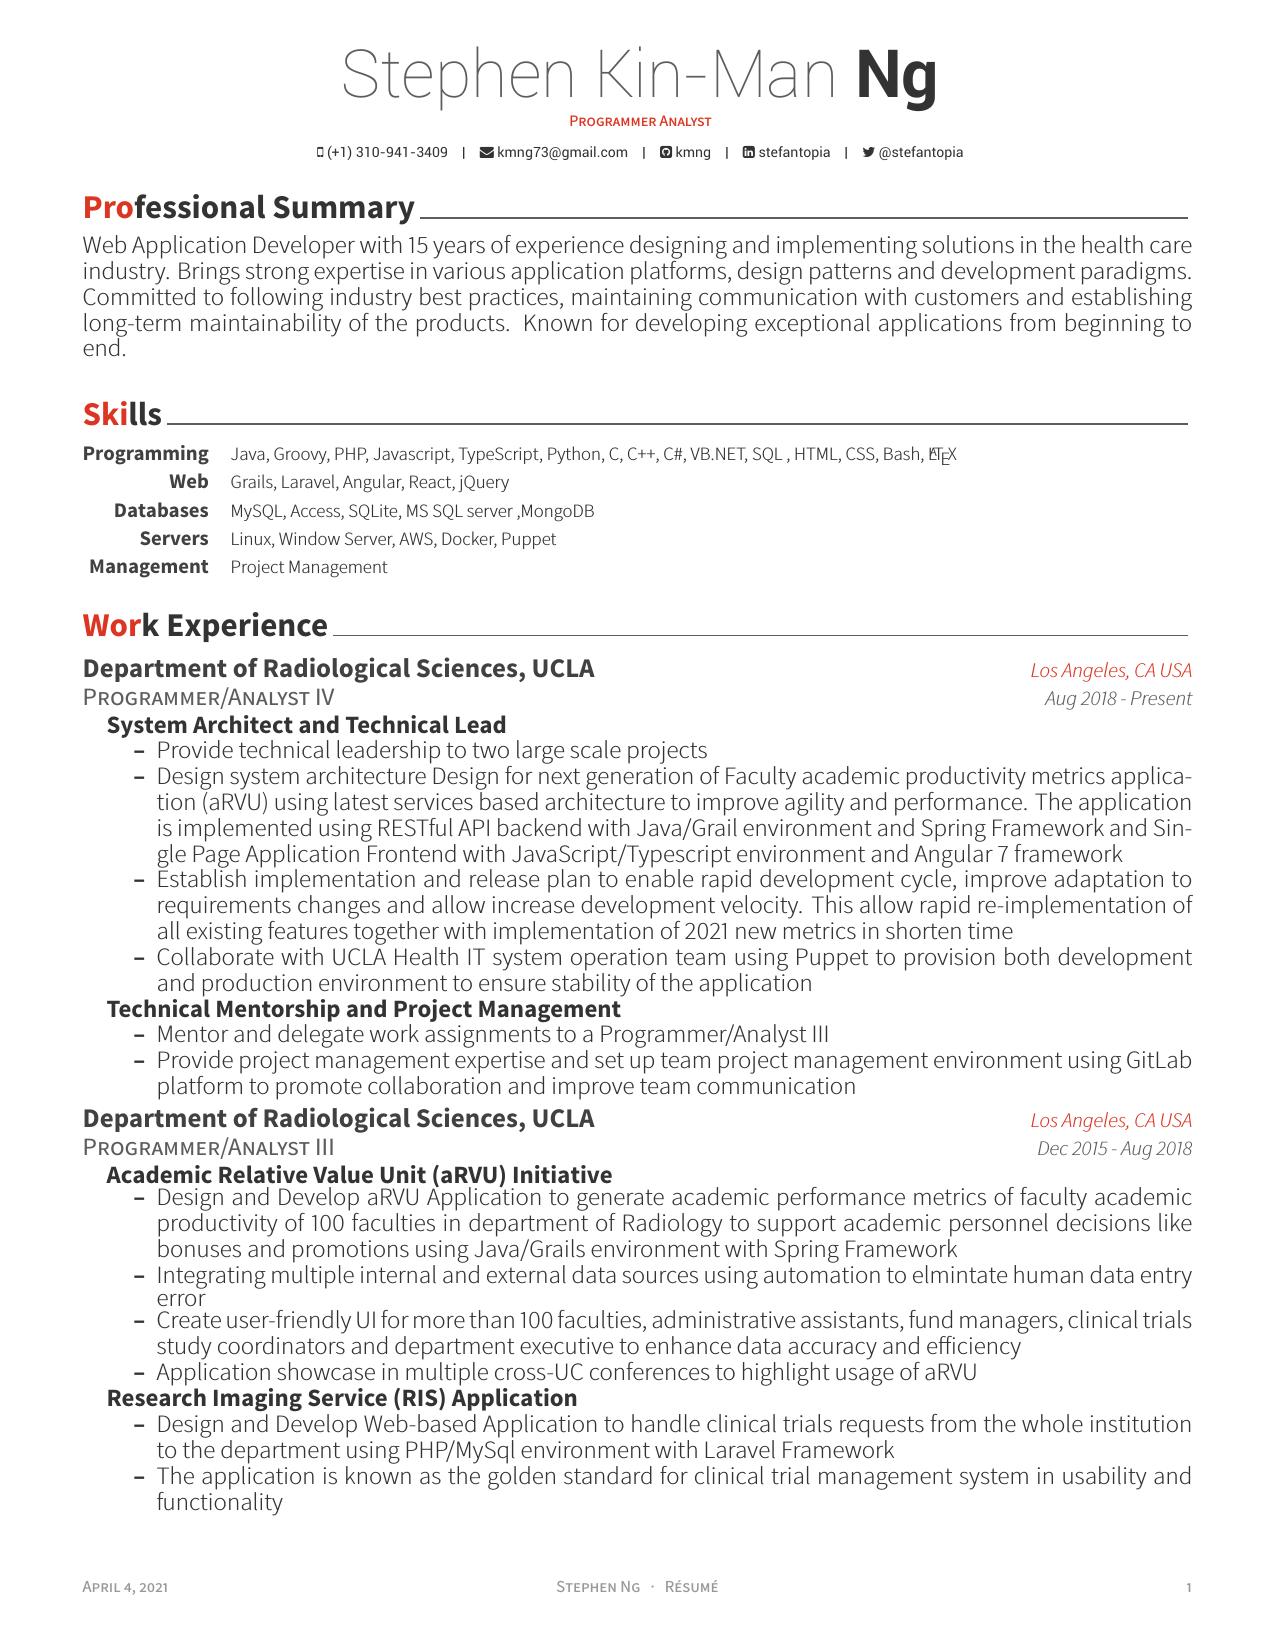
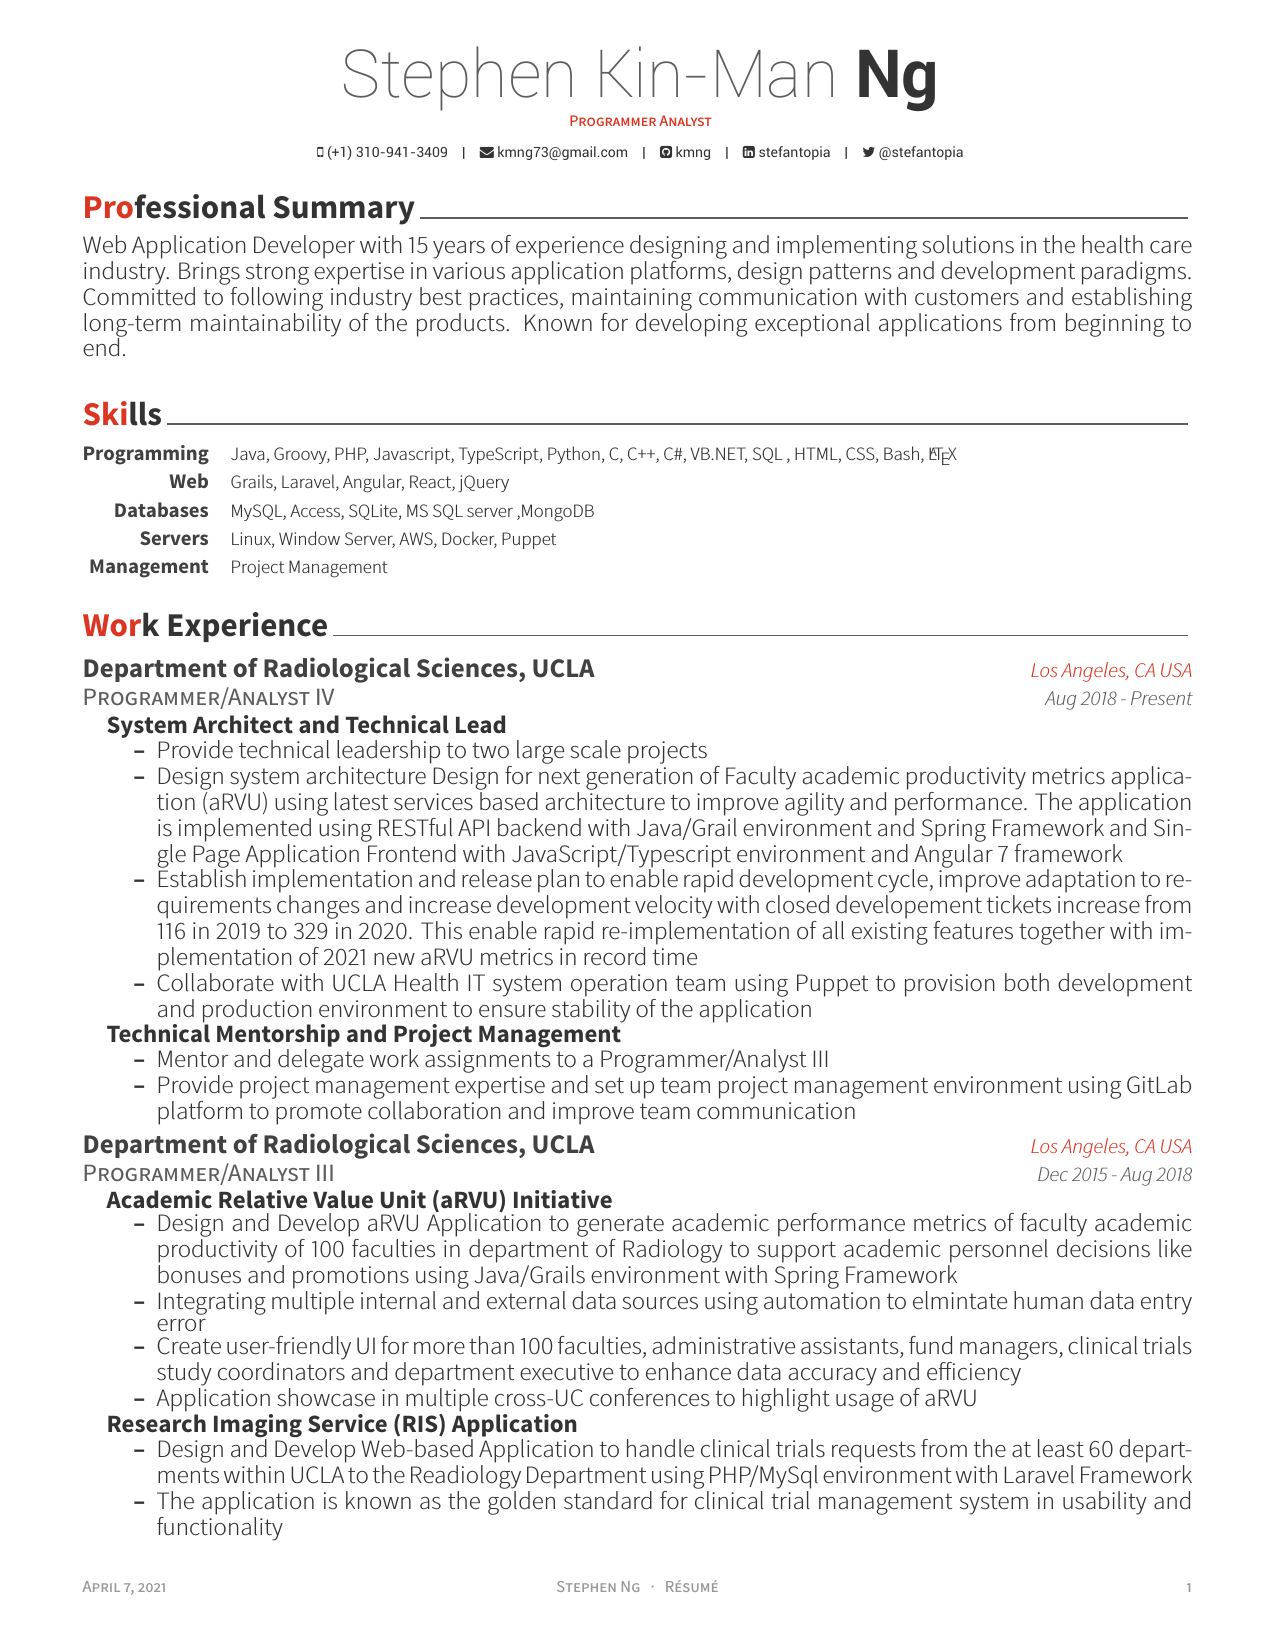
update resume wording

Changed region(s): [[0.0612, 0.5255, 0.9482, 0.9273]]

diff --git a/myresume/resume/experience.tex b/myresume/resume/experience.tex
@@ -24,7 +24,7 @@
             \begin{itemize} % Description(s) of tasks/responsibilities
                 \item {Provide technical leadership to two large scale projects}
                 \item {Design system architecture Design for next generation of Faculty academic productivity metrics application (aRVU) using latest services based architecture to improve agility and performance. The application is implemented using RESTful API backend with Java/Grail environment and Spring Framework and Single Page Application Frontend with JavaScript/Typescript environment and Angular 7 framework}
-                \item {Establish implementation and release plan to enable rapid development cycle, improve adaptation to requirements changes and allow increase development velocity. This allow rapid re-implementation of all existing features together with implementation of 2021 new metrics in shorten time}
+                \item {Establish implementation and release plan to enable rapid development cycle, improve adaptation to requirements changes and increase development velocity with closed developement tickets increase from 116 in 2019 to 329 in 2020. This enable rapid re-implementation of all existing features together with implementation of 2021 new aRVU metrics in record time}
                 \item {Collaborate with UCLA Health IT system operation team using Puppet to provision both development and production environment to ensure stability of the application}
               \end{itemize}}
         \item[] { {\bf Technical Mentorship and Project Management} 
@@ -52,7 +52,7 @@
               \end{itemize}}
         \item[] {  {\bf Research Imaging Service (RIS) Application}  
             \begin{itemize} % Description(s) of tasks/responsibilities
-                \item {Design and Develop Web-based Application to handle clinical trials requests from the whole institution to the department using PHP/MySql environment with Laravel Framework}
+                \item {Design and Develop Web-based Application to handle clinical trials requests from the at least 60 departments within UCLA to the Readiology Department using PHP/MySql environment with Laravel Framework}
                 \item {The application is known as the golden standard for clinical trial management system in usability and functionality}
               \end{itemize}}
       \end{cvitems}
